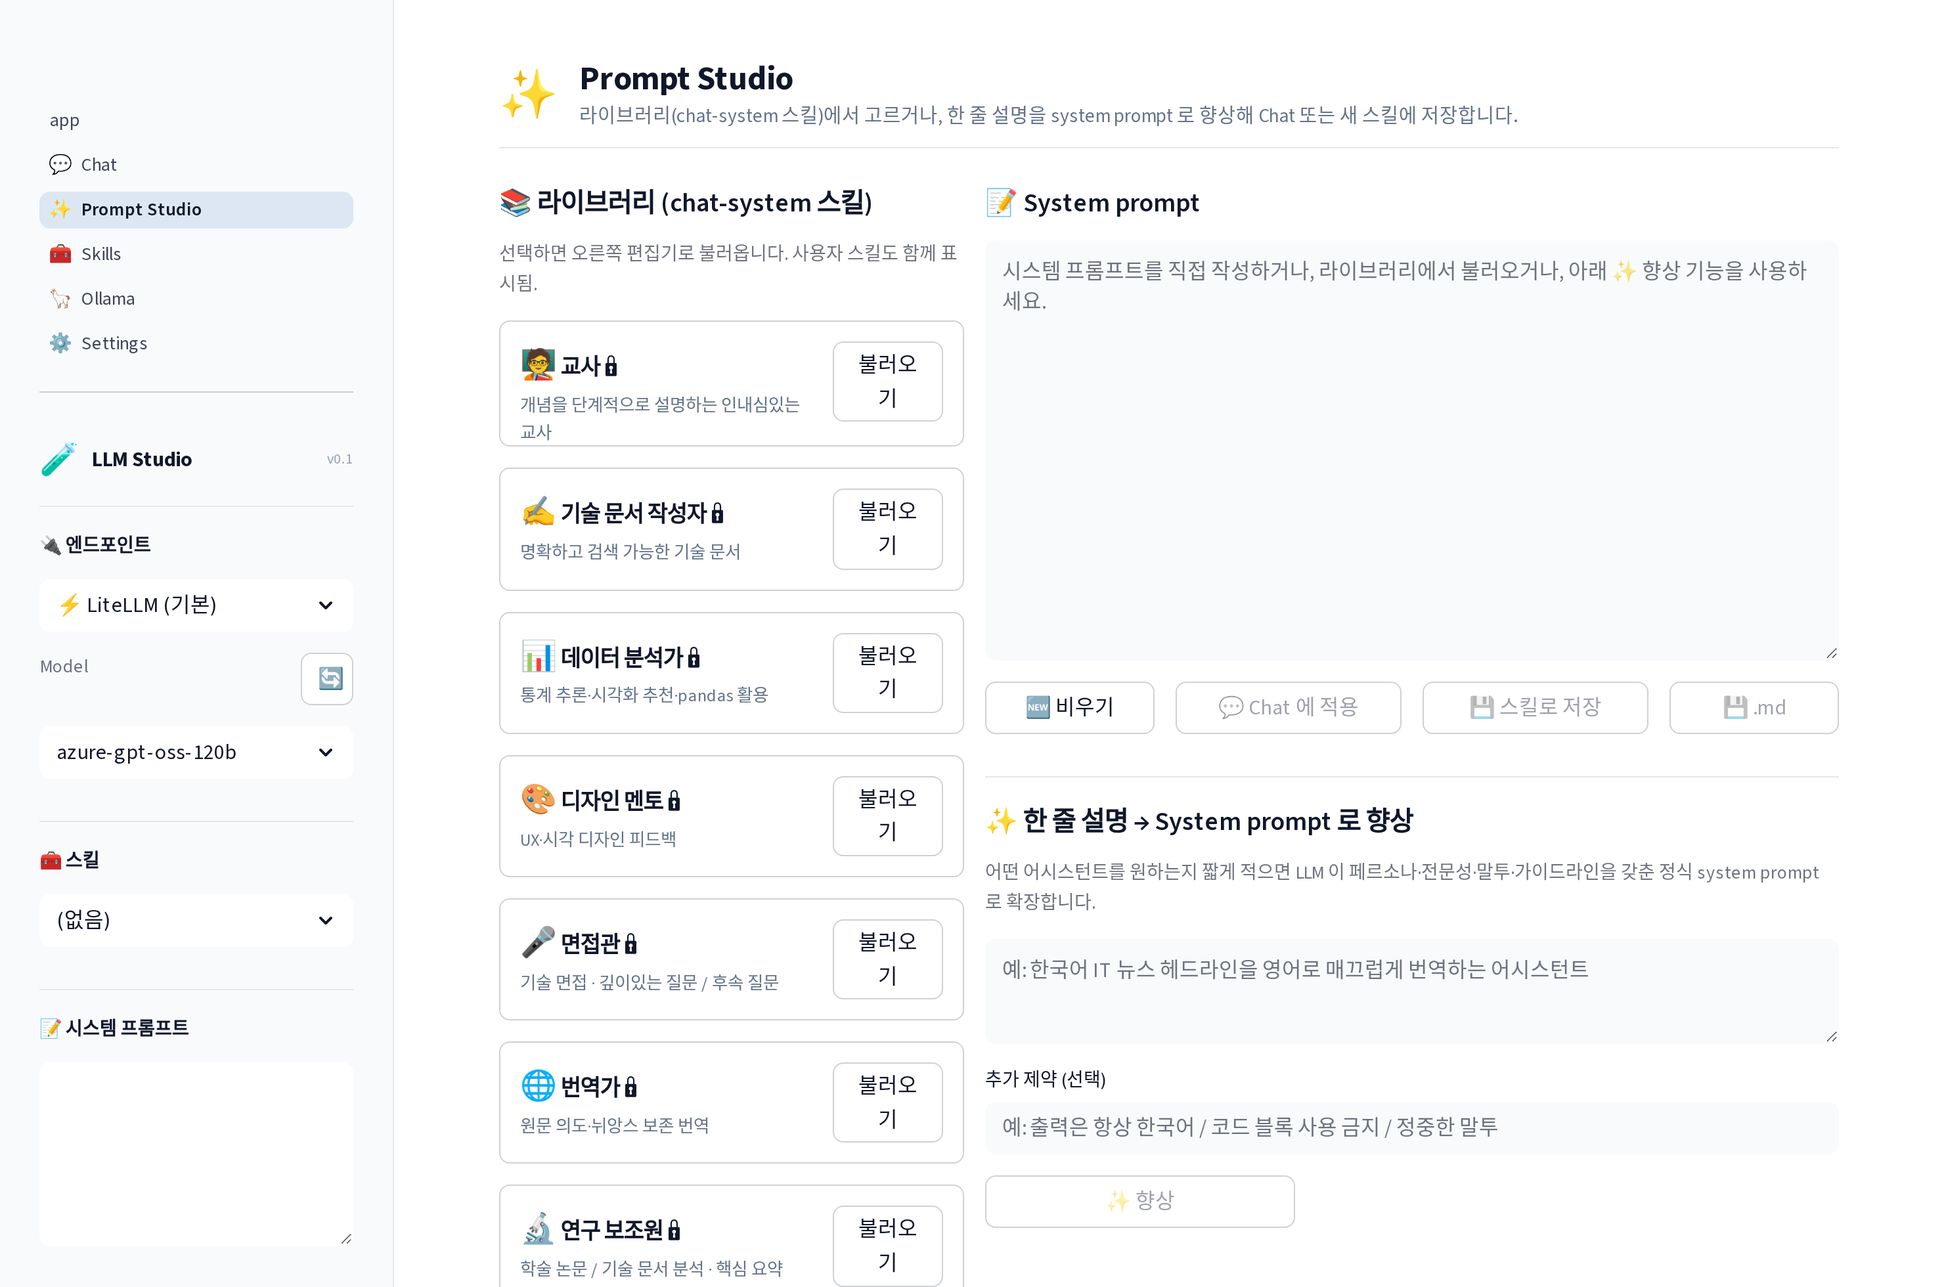
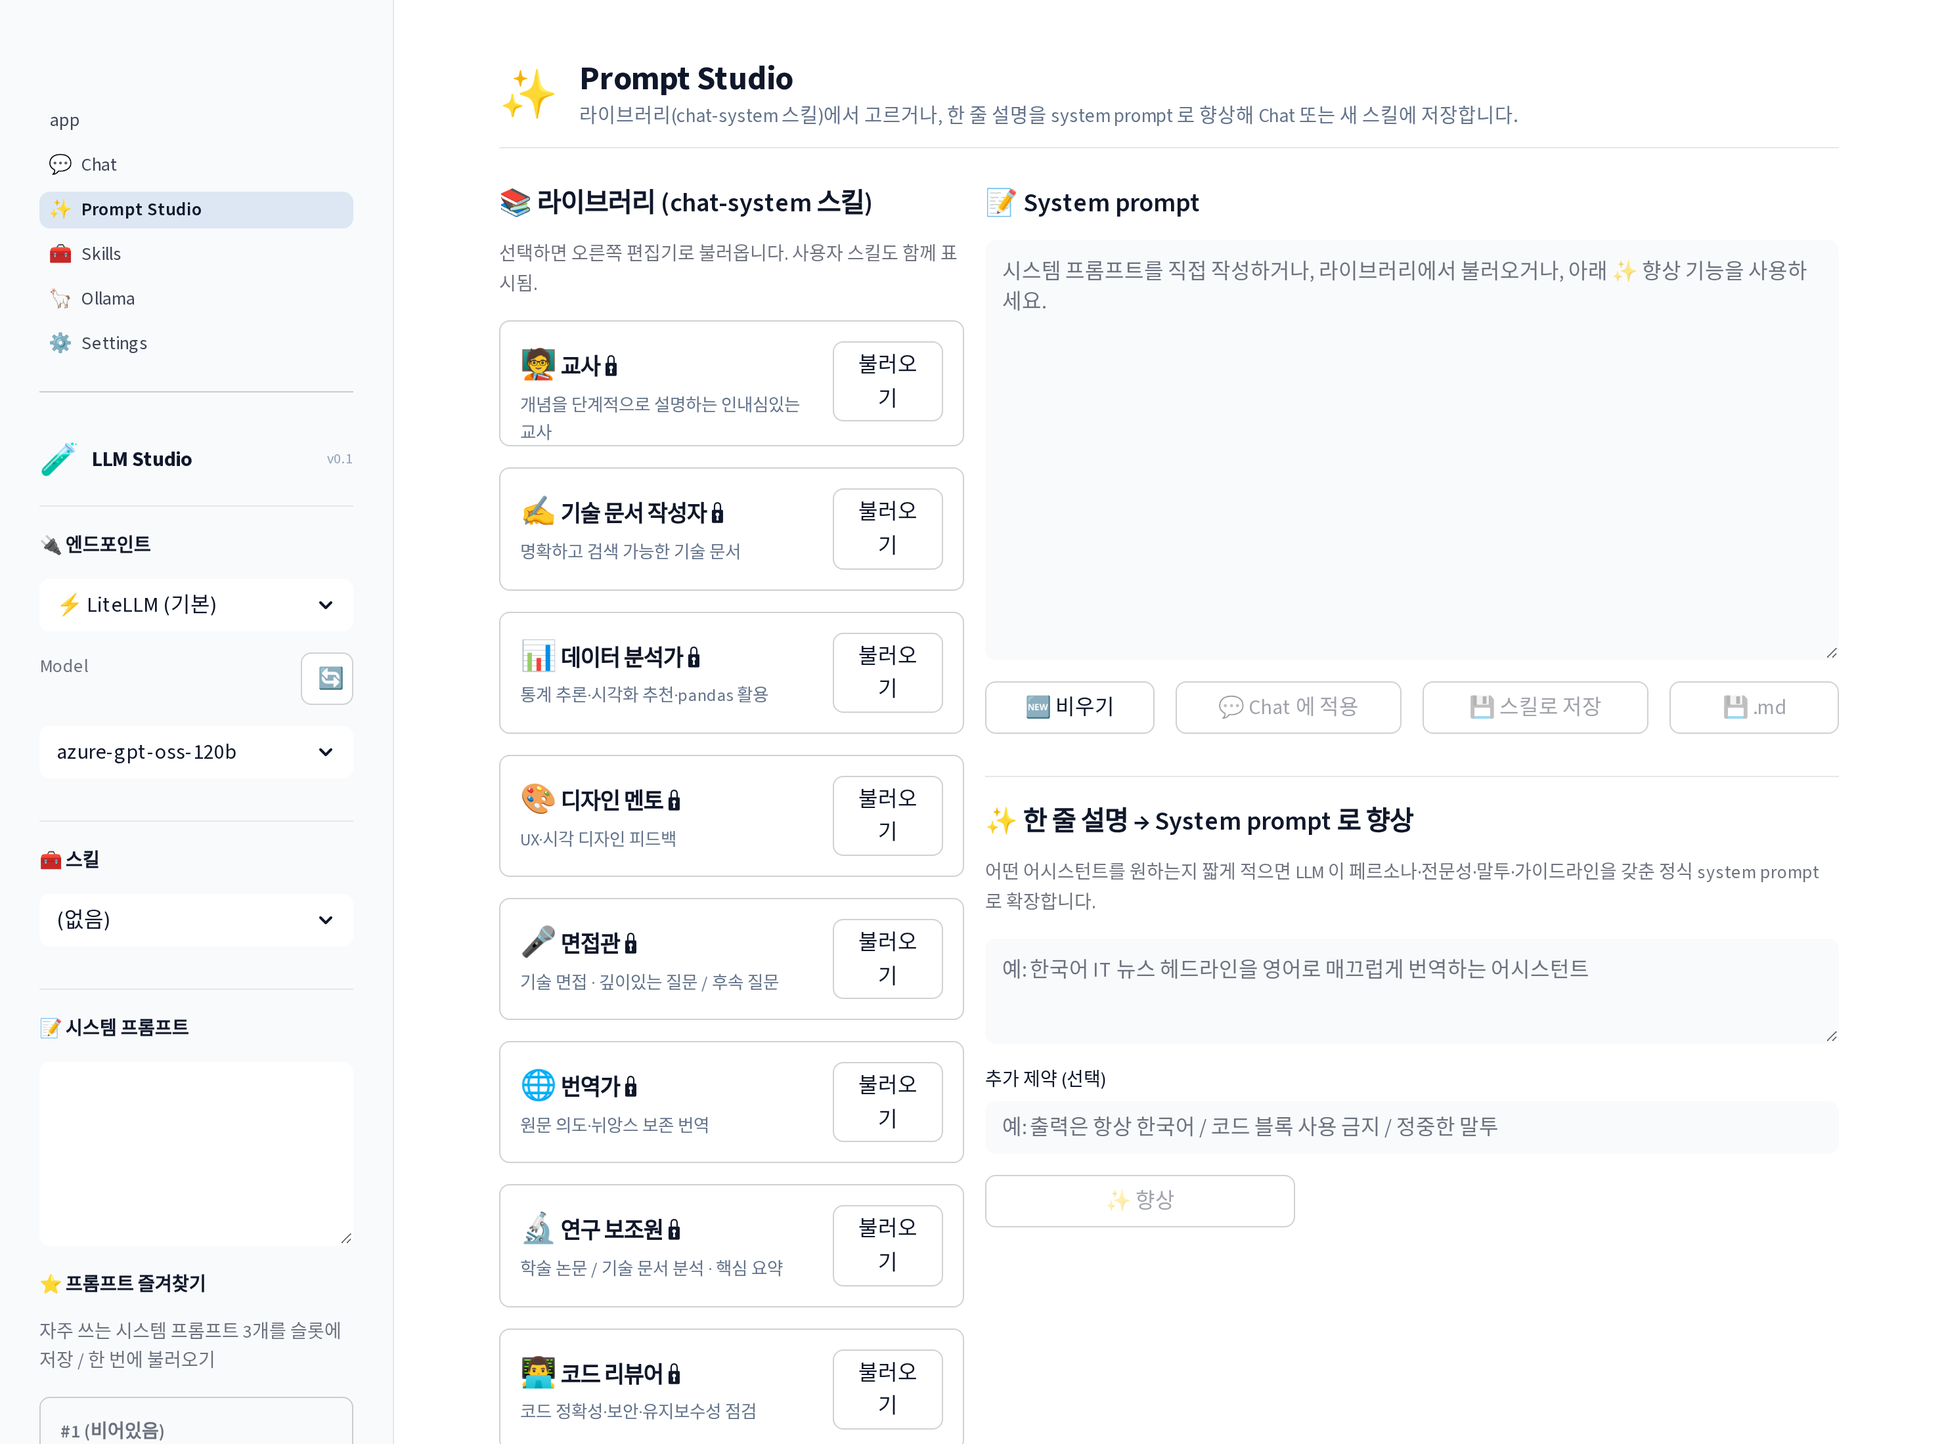
feat(studio): #5 프롬프트 즐겨찾기 슬롯 + #8 Settings 안 Ollama 풀 + #9 Chat 스킬 저장
요구사항 갭 3건 마저 메움.

#9 (Chat 회귀 복구) — Excel Agent 통합 시 빠졌던 "💾 스킬로 저장" 다이얼로그를
Chat 사이드바 액션 영역에 복원. 매 LLM 호출 직전 system_prompt + user_input +
첨부 파일 목록 + 추론된 kind(excel-pandas vs chat-system)를 스냅샷으로 보관
하고, 다이얼로그에서 그 정보를 시드로 새 스킬을 만든다. user 메시지의 파일명은
{file_list} 자리표시자로 자동 치환해 다른 입력에서도 재사용 가능.

#8 (Settings 안에서 직접 다운로드) — Ollama 엔드포인트 카드의 page_link 대신
"📥 모델 풀" 버튼 + 다이얼로그 추가. 인기 모델 9개(llama3.2 1b/3b, llama3.1:8b,
qwen2.5:7b, mistral:7b, gemma2:2b, phi3:mini, deepseek-r1:7b, nomic-embed-text)
+ 직접 입력. resolve(ep).pull(name) 으로 진행률을 st.status 안에 스트리밍.
"전체 관리 →" page_link 는 카드 아래 작은 캡션으로 보존.

#5 (사이드바 여러 프롬프트 입력창) — components/sidebar.py 에 "⭐ 프롬프트
즐겨찾기" 섹션 추가. 페이지별 슬롯 3개(session_state.sidebar_prompt_slots__<page>)
로 자주 쓰는 시스템 프롬프트를 저장하고 한 클릭으로 불러옴. 라벨은 첫 줄 24자
자동 생성 + 사용자가 직접 편집 가능. 📥 적용 / 💾 저장 / 🗑 비우기.

스크린샷 6장 재캡처해 새 UI 반영 (Settings 의 모델 풀 버튼, Chat 사이드바의
프롬프트 즐겨찾기 슬롯 가시화).

diff --git a/AI/llm-studio/pages/1_💬_Chat.py b/AI/llm-studio/pages/1_💬_Chat.py
@@ -29,6 +29,7 @@ from components import (  # noqa: E402
 )
 from shared.execution import run_pandas_code  # noqa: E402
 from shared.llm import Message, resolve  # noqa: E402
+from shared.skills import Skill, get_registry  # noqa: E402
 
 st.set_page_config(page_title="Chat · LLM Studio", page_icon="💬", layout="wide")
 inject_global_css()
@@ -336,13 +337,27 @@ with st.sidebar:
 
     st.divider()
     st.markdown("##### 액션")
+    has_msgs = bool(st.session_state.chat_messages)
+
+    # Save-as-Skill — only meaningful after at least one round-trip.
+    if st.button(
+        "💾 이 작업을 스킬로 저장",
+        use_container_width=True,
+        disabled=not (has_msgs and st.session_state.get("last_chat_user")),
+        help="방금 사용한 시스템 프롬프트 + 사용자 메시지를 재사용 가능한 스킬로 저장",
+    ):
+        st.session_state["show_chat_save_dialog"] = True
+
     c1, c2 = st.columns(2)
     if c1.button("🆕 새 대화", use_container_width=True):
         st.session_state.chat_messages = []
         st.session_state.chat_attachments = {}
         st.session_state.pop("last_stats", None)
+        st.session_state.pop("last_chat_user", None)
+        st.session_state.pop("last_chat_system", None)
+        st.session_state.pop("last_chat_files", None)
+        st.session_state.pop("last_chat_kind", None)
         st.rerun()
-    has_msgs = bool(st.session_state.chat_messages)
     if has_msgs:
         # build markdown export
         md = f"# Chat — {datetime.now():%Y-%m-%d %H:%M}\n\n"
@@ -558,6 +573,17 @@ if user_input:
         msgs.append(Message(role="system", content=system_combined))
     msgs += [Message(role=m["role"], content=m["content"]) for m in st.session_state.chat_messages]
 
+    # Snapshot for "💾 스킬로 저장" — keep the user-authored prompt only,
+    # NOT the auto-built file context (which is regenerated per attachment).
+    st.session_state["last_chat_user"] = user_input
+    st.session_state["last_chat_system"] = state.system_prompt
+    st.session_state["last_chat_files"] = list(st.session_state.chat_attachments)
+    st.session_state["last_chat_kind"] = (
+        "excel-pandas"
+        if has_executable_intent(st.session_state.chat_attachments)
+        else "chat-system"
+    )
+
     # 4) Stream assistant reply
     with st.chat_message("assistant"):
         placeholder = st.empty()
@@ -676,3 +702,110 @@ if user_input:
         "sandbox_elapsed": sandbox_elapsed,
     }
     st.rerun()
+
+
+# ============================================================
+# save-as-skill dialog — capture last round-trip as reusable skill
+# ============================================================
+
+def _build_user_template_seed(user_text: str, files: list[str]) -> str:
+    """Replace literal file names + insert {task} placeholder so the template
+    works on different inputs next time."""
+    seed = user_text
+    if files:
+        # Replace any literal filename in the user message with `{file_list}` to
+        # make the template portable; if none of them appear verbatim, just
+        # prepend a placeholder block so users can edit.
+        replaced = False
+        for f in files:
+            if f in seed:
+                seed = seed.replace(f, "{file_list}")
+                replaced = True
+        if not replaced:
+            seed = "파일: {file_list}\n\n" + seed
+    # 보존: 자리표시자 {task} 는 사용자가 직접 위치 지정하도록 안내만
+    return seed
+
+
+@st.dialog("스킬로 저장")
+def chat_save_skill_dialog():
+    last_user = st.session_state.get("last_chat_user") or ""
+    last_system = st.session_state.get("last_chat_system") or ""
+    last_files = st.session_state.get("last_chat_files") or []
+    suggested_kind = st.session_state.get("last_chat_kind") or "chat-system"
+
+    template_seed = _build_user_template_seed(last_user, last_files)
+
+    st.caption(
+        "방금 사용한 시스템 프롬프트 + 사용자 메시지를 재사용 가능한 스킬로 저장. "
+        "자리표시자 `{file_list}` · `{task}` · `{schema_json}` 을 활용하면 다음 호출에서 "
+        "다른 파일·작업으로 재사용됩니다."
+    )
+
+    with st.form("chat_save_skill_form", border=False):
+        slug = st.text_input("슬러그 (id)", placeholder="예: my-monthly-summary",
+                             help="소문자·숫자·하이픈, 1-64자")
+        name = st.text_input("이름", placeholder="예: 월별 매출 요약")
+        c_icon, c_kind = st.columns([1, 3])
+        icon = c_icon.text_input("아이콘", value="📊" if suggested_kind == "excel-pandas" else "💬",
+                                  max_chars=4)
+        kind_options = ["chat-system", "excel-pandas"]
+        kind = c_kind.selectbox(
+            "Kind",
+            kind_options,
+            index=kind_options.index(suggested_kind) if suggested_kind in kind_options else 0,
+            help="excel-pandas: Excel 작업용 / chat-system: 일반 대화용",
+        )
+        description = st.text_input("설명 (한 줄)")
+        tags_str = st.text_input("태그 (쉼표 구분)", placeholder="예: excel, budget, ko")
+
+        st.markdown("**System prompt** (사용자가 입력한 부분만 — 자동 생성된 file context 는 제외)")
+        sys_prompt = st.text_area(
+            "system",
+            value=last_system,
+            height=140,
+            label_visibility="collapsed",
+        )
+
+        st.markdown("**User prompt template** — `{file_list}` 등 자리표시자 사용 권장")
+        user_template = st.text_area(
+            "user_template",
+            value=template_seed,
+            height=140,
+            label_visibility="collapsed",
+        )
+
+        cx, cy = st.columns(2)
+        cancel = cx.form_submit_button("취소", use_container_width=True)
+        save = cy.form_submit_button("💾 저장", type="primary", use_container_width=True)
+
+    if cancel:
+        st.session_state.pop("show_chat_save_dialog", None)
+        st.rerun()
+
+    if save:
+        try:
+            tags = tuple(t.strip() for t in (tags_str or "").split(",") if t.strip())
+            new = Skill(
+                slug=slug.strip(),
+                name=name.strip() or slug.strip(),
+                icon=icon.strip() or ("📊" if kind == "excel-pandas" else "💬"),
+                kind=kind,
+                description=description.strip(),
+                system_prompt=sys_prompt,
+                user_prompt_template=user_template,
+                tags=tags,
+                default_endpoint=state.endpoint.slug if state.endpoint else None,
+                default_model=state.model or None,
+            )
+            saved = get_registry().save(new)
+            st.toast(f"💾 `{saved.slug}` 저장 — 사이드바 🧰 스킬 드롭다운에서 즉시 사용 가능",
+                     icon="🧰")
+            st.session_state.pop("show_chat_save_dialog", None)
+            st.rerun()
+        except Exception as e:
+            st.error(f"저장 실패: {type(e).__name__}: {e}")
+
+
+if st.session_state.get("show_chat_save_dialog"):
+    chat_save_skill_dialog()

diff --git a/AI/llm-studio/pages/5_⚙_Settings.py b/AI/llm-studio/pages/5_⚙_Settings.py
@@ -13,6 +13,7 @@ from shared.llm import (  # noqa: E402
     get_endpoints,
     has_api_key,
     list_providers,
+    resolve,
     test_connection,
 )
 from shared.llm.config import (  # noqa: E402
@@ -186,7 +187,15 @@ for ep in eps:
                     st.toast(f"❌ {ep.slug}: {msg}", icon="⚠")
         with c3:
             if ep.provider_kind == "ollama":
-                st.page_link("pages/4_🦙_Ollama.py", label="📥 모델 관리")
+                if st.button(
+                    "📥 모델 풀",
+                    key=f"pull_dlg_{ep.slug}",
+                    use_container_width=True,
+                    help="이 엔드포인트에 직접 모델 다운로드",
+                ):
+                    st.session_state["ollama_pull_slug"] = ep.slug
+                    st.session_state["show_ollama_pull_dialog"] = True
+                st.page_link("pages/4_🦙_Ollama.py", label="전체 관리 →")
         with c4:
             cx, cy = st.columns(2)
             if cx.button(
@@ -409,6 +418,118 @@ for group in GROUPS:
             render_group_edit(group, form_key=f"form_{group['title']}")
         else:
             render_group_readonly(group)
+
+
+# ============================================================
+# Ollama 모델 풀 다이얼로그 (Settings 안에서 직접 다운로드)
+# ============================================================
+_POPULAR_OLLAMA = [
+    ("llama3.2:1b",      "1.3GB", "Llama 3.2 — 초경량"),
+    ("llama3.2:3b",      "2.0GB", "Llama 3.2 — 균형형 (추천 시작점)"),
+    ("llama3.1:8b",      "4.7GB", "Llama 3.1 — 표준 사이즈"),
+    ("qwen2.5:7b",       "4.7GB", "Qwen 2.5 — 다국어 우수"),
+    ("mistral:7b",       "4.4GB", "Mistral — 코드 강점"),
+    ("gemma2:2b",        "1.6GB", "Google Gemma 2"),
+    ("phi3:mini",        "2.3GB", "Microsoft Phi-3 Mini"),
+    ("deepseek-r1:7b",   "4.7GB", "DeepSeek R1 — 추론 강화"),
+    ("nomic-embed-text", "274MB", "Nomic — 일반 임베딩"),
+]
+
+
+def _fmt_bytes(b: float) -> str:
+    if b <= 0:
+        return "-"
+    for unit in ("B", "KB", "MB", "GB"):
+        if b < 1024 or unit == "GB":
+            return f"{b:.1f} {unit}" if unit != "B" else f"{b:.0f} {unit}"
+        b /= 1024
+    return f"{b:.1f} TB"
+
+
+@st.dialog("📥 Ollama 모델 풀")
+def ollama_pull_dialog():
+    slug = st.session_state.get("ollama_pull_slug")
+    ep = endpoints_reg.get(slug) if slug else None
+    if ep is None or ep.provider_kind != "ollama":
+        st.error("Ollama 엔드포인트가 선택되지 않았습니다.")
+        return
+
+    st.caption(
+        f"엔드포인트: **{ep.icon} {ep.name}** · `{ep.base_url}` — "
+        "원클릭으로 받거나 직접 모델명을 입력하세요."
+    )
+
+    # ----- popular picks -----
+    try:
+        provider = resolve(ep, model="-")
+        installed = {m["name"] for m in provider.list_installed()}
+    except Exception as e:
+        provider = None
+        installed = set()
+        st.warning(f"서버 연결 실패: {type(e).__name__}: {e}")
+
+    st.markdown("**인기 모델**")
+    for name, size, desc in _POPULAR_OLLAMA:
+        with st.container(border=True):
+            cc1, cc2, cc3, cc4 = st.columns([3, 1, 4, 1.5])
+            cc1.markdown(f"`{name}`")
+            cc2.markdown(badge(size, "info"), unsafe_allow_html=True)
+            cc3.caption(desc)
+            if name in installed:
+                cc4.markdown(badge("✅ 설치됨", "ok"), unsafe_allow_html=True)
+            else:
+                if cc4.button("⬇ Pull", key=f"settings_pull_{name}",
+                              use_container_width=True, disabled=provider is None):
+                    st.session_state["_ollama_pull_target"] = name
+                    st.rerun()
+
+    st.divider()
+    st.markdown("**직접 입력**")
+    with st.form("ollama_manual_pull"):
+        manual = st.text_input(
+            "모델 이름",
+            placeholder="예: llama3.1:70b, qwen2.5:14b, 사용자/모델명 …",
+        )
+        submitted = st.form_submit_button("⬇ Pull", use_container_width=True)
+    if submitted and manual.strip():
+        st.session_state["_ollama_pull_target"] = manual.strip()
+        st.rerun()
+
+    # ----- run pull (single click per rerun) -----
+    target = st.session_state.pop("_ollama_pull_target", None)
+    if target and provider is not None:
+        with st.status(f"📥 `{target}` 다운로드 중…", expanded=True) as status:
+            progress = st.progress(0.0)
+            detail = st.empty()
+            try:
+                for evt in provider.pull(target):
+                    s = evt.get("status", "")
+                    total = evt.get("total")
+                    completed = evt.get("completed")
+                    if total and completed:
+                        frac = min(completed / total, 1.0)
+                        progress.progress(frac)
+                        detail.write(
+                            f"`{s}` · {_fmt_bytes(completed)} / "
+                            f"{_fmt_bytes(total)} · {frac*100:.1f}%"
+                        )
+                    else:
+                        detail.write(f"`{s}`")
+                progress.progress(1.0)
+                status.update(label=f"✅ `{target}` 완료", state="complete", expanded=False)
+                st.toast(f"📥 `{target}` 설치됨", icon="🦙")
+            except Exception as e:
+                status.update(label=f"❌ pull 실패: {e}", state="error")
+
+    st.divider()
+    if st.button("닫기", use_container_width=True):
+        st.session_state.pop("show_ollama_pull_dialog", None)
+        st.session_state.pop("ollama_pull_slug", None)
+        st.rerun()
+
+
+if st.session_state.get("show_ollama_pull_dialog"):
+    ollama_pull_dialog()
 
 
 # ============================================================

diff --git a/AI/llm-studio/components/sidebar.py b/AI/llm-studio/components/sidebar.py
@@ -250,6 +250,67 @@ def render_sidebar(
         )
         st.session_state[sys_key] = system_prompt
 
+        # ----- ⭐ Prompt slots (3 favorites, page-scoped) -----
+        slots_key = f"sidebar_prompt_slots__{page_id}"
+        slots = st.session_state.setdefault(
+            slots_key, [{"label": "", "content": ""} for _ in range(3)]
+        )
+        st.markdown("##### ⭐ 프롬프트 즐겨찾기")
+        st.caption("자주 쓰는 시스템 프롬프트 3개를 슬롯에 저장 / 한 번에 불러오기")
+        for i, slot in enumerate(slots, start=1):
+            with st.container(border=True):
+                has_content = bool(slot.get("content", "").strip())
+                label_display = slot.get("label") or (
+                    f"#{i} (비어있음)" if not has_content else f"#{i} 저장됨"
+                )
+                st.caption(f"**{label_display}**")
+                c_load, c_save, c_clear = st.columns(3)
+                if c_load.button(
+                    "📥",
+                    key=f"slot_load__{page_id}__{i}",
+                    use_container_width=True,
+                    disabled=not has_content,
+                    help="이 슬롯의 프롬프트를 위 시스템 프롬프트에 적용",
+                ):
+                    st.session_state[sys_key] = slot["content"]
+                    st.toast(f"📥 슬롯 #{i} 적용", icon="⭐")
+                    st.rerun()
+                if c_save.button(
+                    "💾",
+                    key=f"slot_save__{page_id}__{i}",
+                    use_container_width=True,
+                    disabled=not system_prompt.strip(),
+                    help="현재 시스템 프롬프트를 이 슬롯에 저장",
+                ):
+                    # If the user has typed a custom label via the input below,
+                    # honor it; otherwise auto-label from the first 24 chars.
+                    auto_label = (system_prompt.strip().splitlines()[0])[:24]
+                    slot["label"] = slot.get("label") or auto_label
+                    slot["content"] = system_prompt
+                    st.toast(f"💾 슬롯 #{i} 저장", icon="⭐")
+                    st.rerun()
+                if c_clear.button(
+                    "🗑",
+                    key=f"slot_clear__{page_id}__{i}",
+                    use_container_width=True,
+                    disabled=not has_content,
+                    help="슬롯 비우기",
+                ):
+                    slot["label"] = ""
+                    slot["content"] = ""
+                    st.toast(f"🗑 슬롯 #{i} 비움", icon="⭐")
+                    st.rerun()
+                if has_content:
+                    new_label = st.text_input(
+                        "라벨",
+                        value=slot.get("label", ""),
+                        key=f"slot_label__{page_id}__{i}",
+                        label_visibility="collapsed",
+                        placeholder="짧은 라벨 (선택)",
+                    )
+                    if new_label != slot.get("label"):
+                        slot["label"] = new_label
+
         # ----- 🛠 Task (Excel only) -----
         task = ""
         if with_task:
